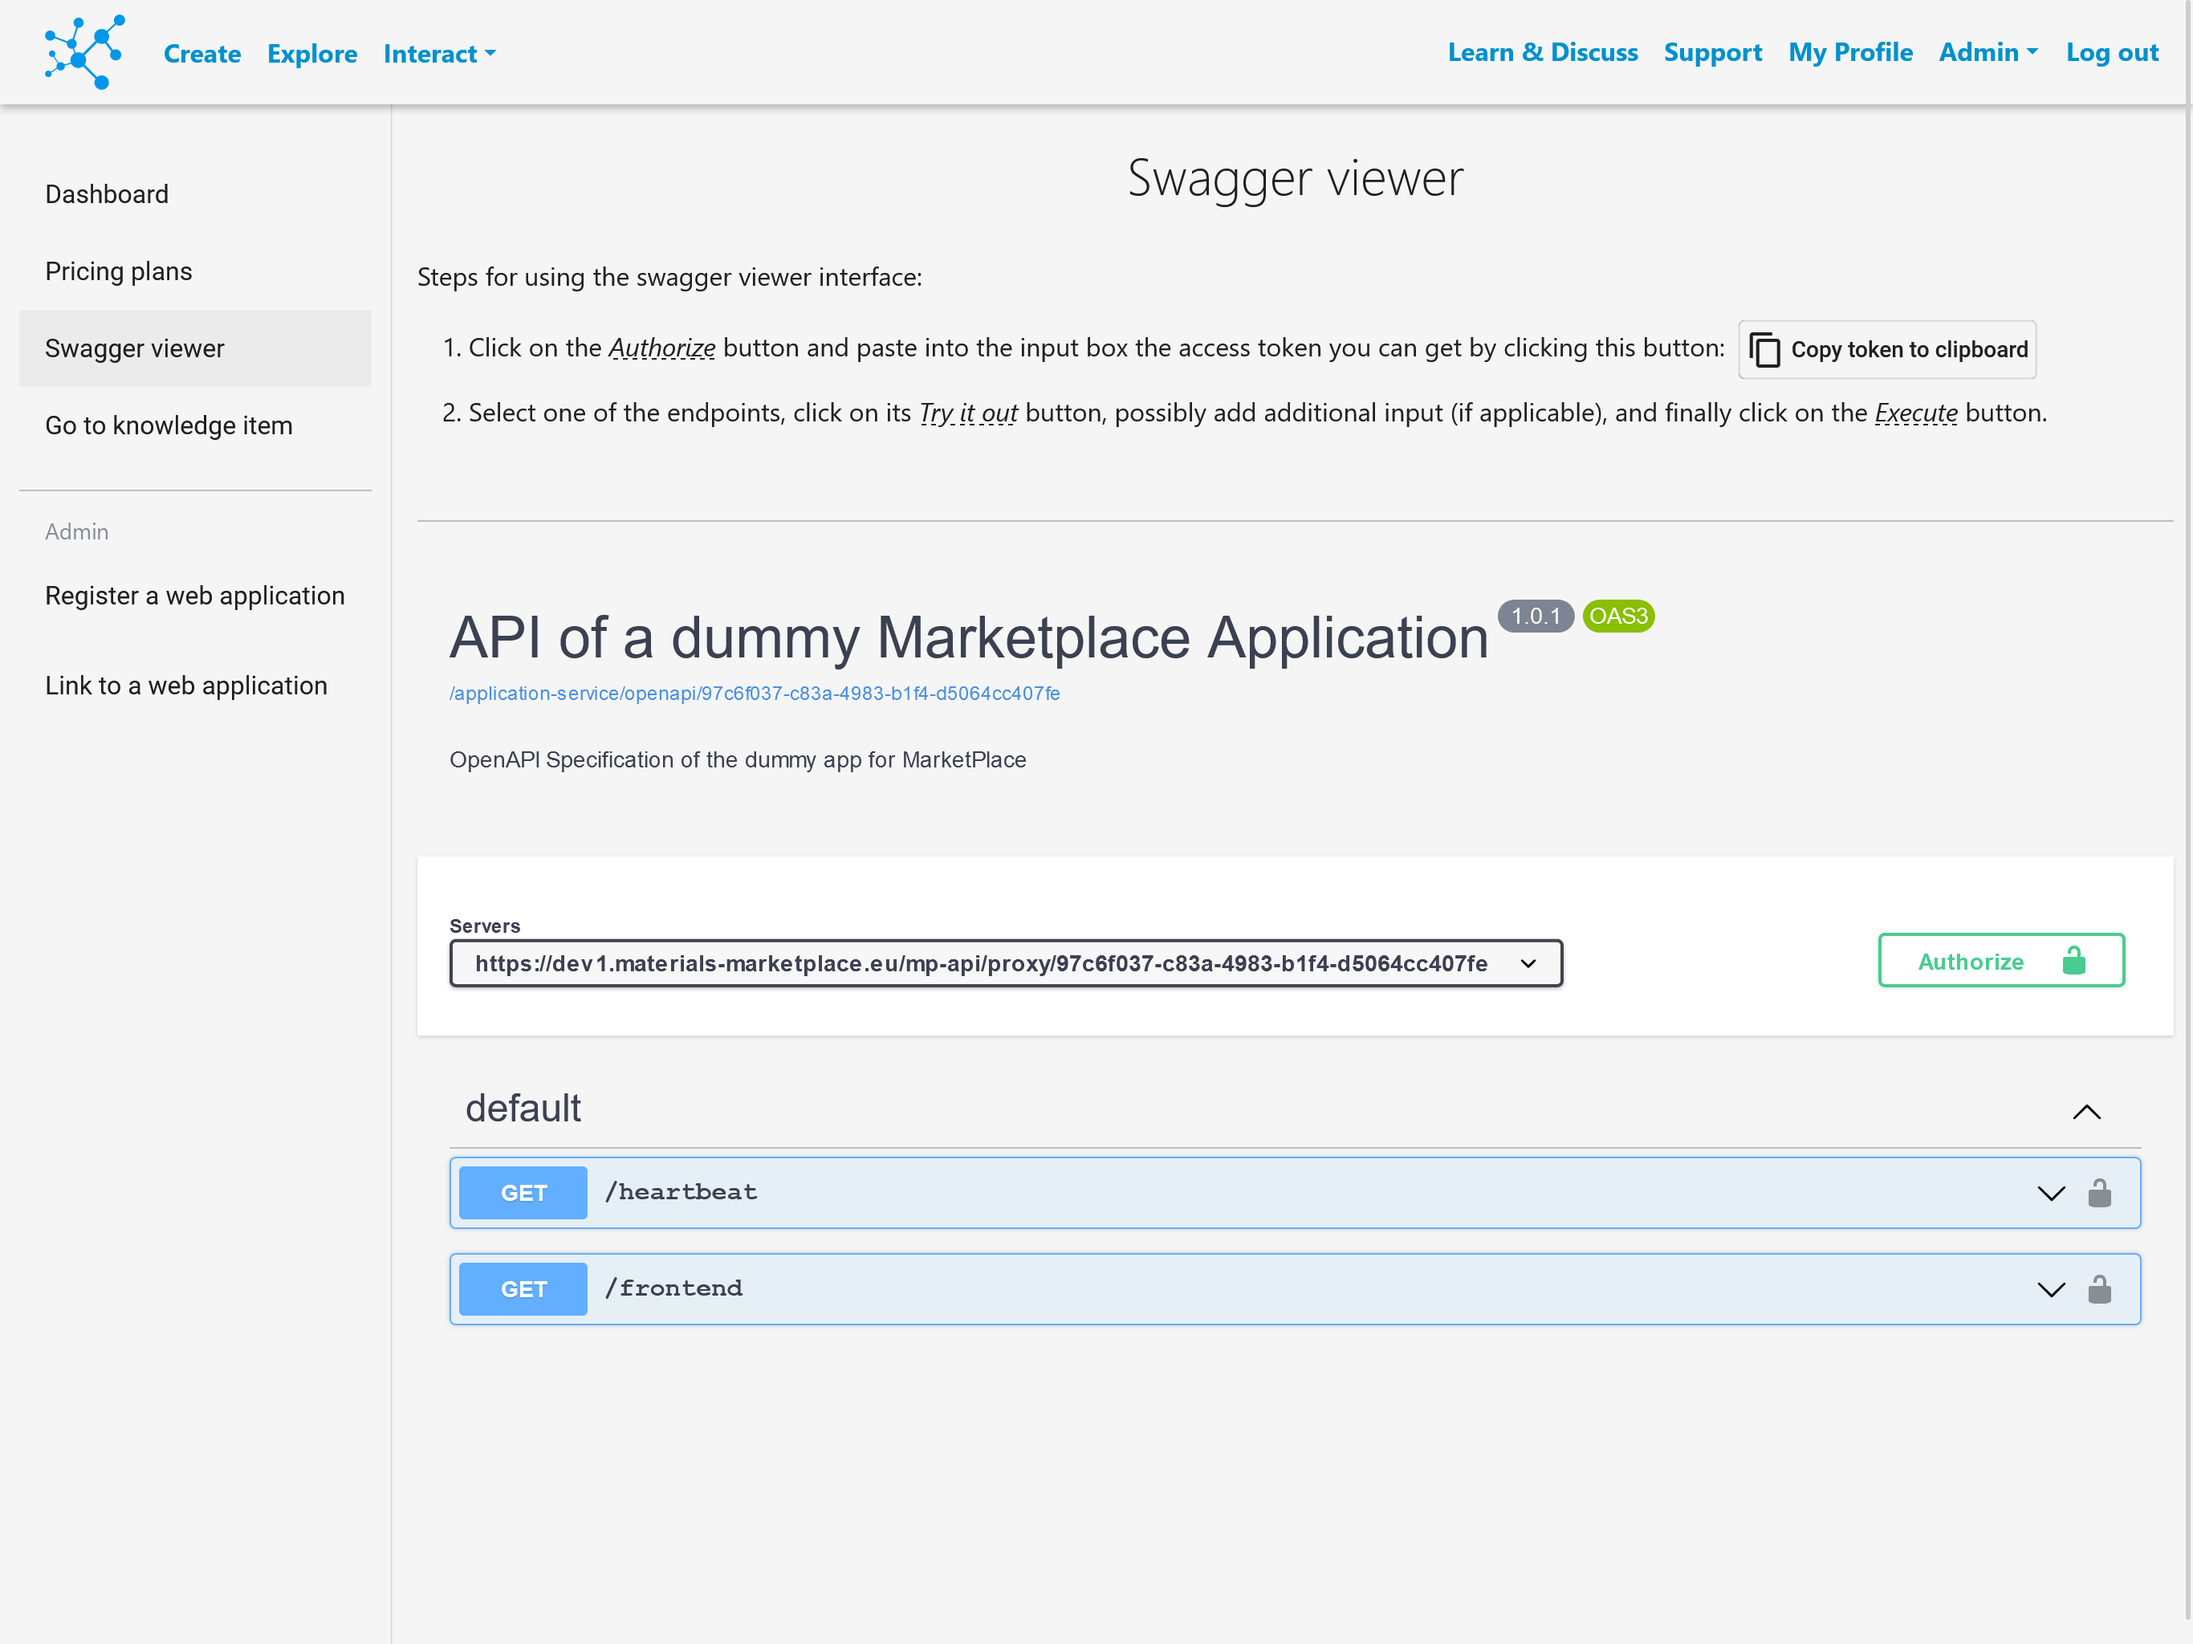
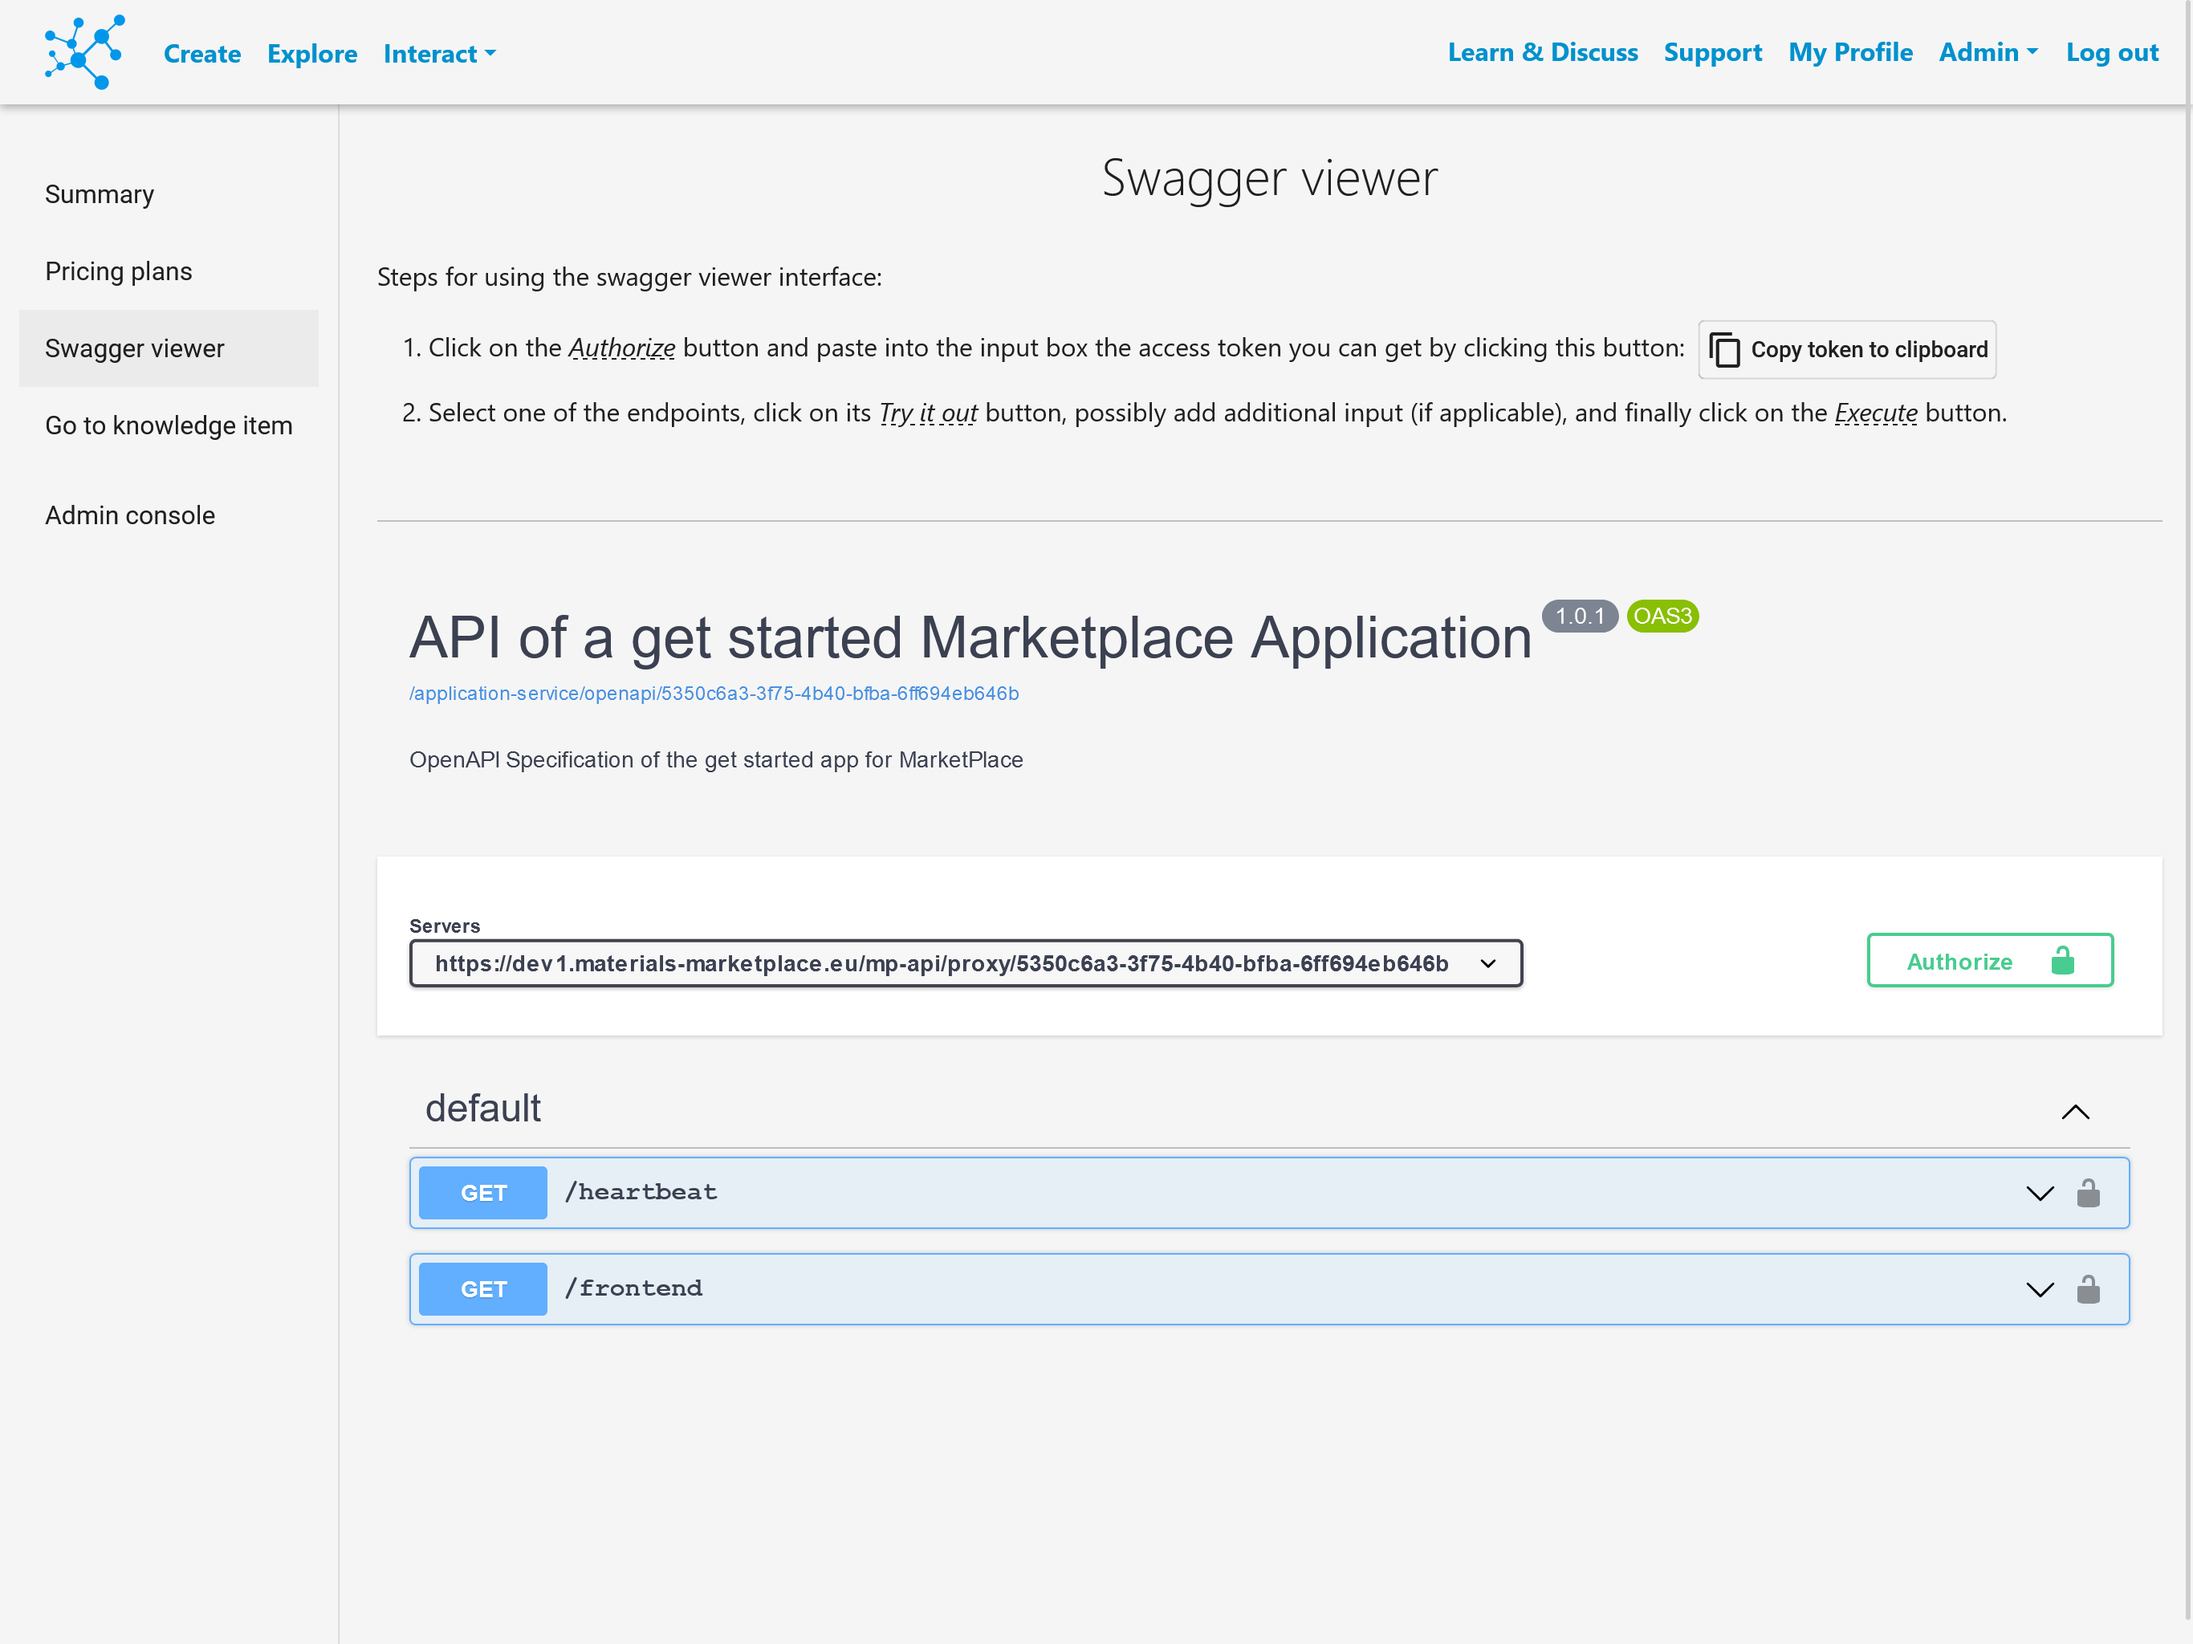
Add update and images of latest version

diff --git a/docs/source/apps/registration.md b/docs/source/apps/registration.md
@@ -24,7 +24,7 @@ To proceed to the next step, click on "_Dashboard_".
 
 ## 2. Register application
 
-In the "_Register a web application_" section of the left bar you can upload the file with the openAPI specification.
+In the _Register or update_ section of _Admin console_ you can upload the file with the openAPI specification.
 For more information on this file, refer to the [OpenAPI specification section](mp-api.md).
 
 ![Registration input](../_static/img/app_registration/register_app.png)
@@ -33,28 +33,28 @@ If the registration process is successful, you will be provided with some meanin
 
 ![Registration output](../_static/img/app_registration/registration_output.png)
 
-In the case that you have developed the application following a setup similar to the aforementioned dummy app, the `client_id` and `client_secret` should be used when you start your application server to enable the Single Sing On mechanism via the MarketPlace platform.
+In the case that you have developed the application following a setup similar to the aforementioned get-started app, the `client_id` and `client_secret` should be used when you start your application server to enable the Single Sing On mechanism via the MarketPlace platform.
 
 Next, a platform admin should approve the registration.
 In the meantime, make sure that your application server is running and can be reached.
 
 ## 3. Link application
 
-Once the application has been approved, it will be available for linking in the "_Link to a web application_" section.
+Once the application has been approved, it will be available for linking in the _Link_ section of the admin console.
 
 ![Link the application](../_static/img/app_registration/link_app.png)
 
-Now the application information (client ID and capabilities) should be available in the "_Dashboard_".
+Now the application information (client ID and capabilities) should be available in the _Summary_.
 
 ![Application Dashboard](../_static/img/app_registration/app_info.png)
 
-To be able to use the application, one of the products should be purchased on the "_Pricing plans_" section.
+To be able to use the application, one of the products should be purchased on the _Pricing plans_ section.
 
 ![Purchasing a product](../_static/img/app_registration/pricing.png)
 
 ## 4. Test application
 
-You can directly test the communication with the newly registered application via MarketPlace on the "_Swagger viewer_".
+You can directly test the communication with the newly registered application via MarketPlace on the _Swagger viewer_.
 The endpoints shown there are directly generated based on the uploaded openAPI file.
 
 ![Swagger view](../_static/img/app_registration/swagger.png)

diff --git a/docs/source/apps/update.md b/docs/source/apps/update.md
@@ -1,9 +1,5 @@
 # Update an application
 
-```{warning}
-Temporarily not supported.
-```
-
 Once an application has already been registered, it can be updated without having to change the client ID and client secret values.
 
 ## 1. Update the .yml file
@@ -11,33 +7,14 @@ Once an application has already been registered, it can be updated without havin
 The `version` field must be updated each time the application is updated.
 The `client-id` provided in the initial registration should be included in the `x-oauth-client` section.
 
-If any products remain unchanged, their `product-id` should be included in the `products` description
+If any products remain unchanged, their `product-id` should be included in the `x-products` description.
 
-## 2. Update the application in MarketPlace
+## 2. Update the application on the MarketPlace
 
-TODO: This process is being reviewed in the latest version and has not been finalised yet.
+Upload the new version of the openAPI specification in the _Admin console_ of your application:
 
-Please re-register any application that needs to be updated for now
+![Update the application](../_static/img/app_registration/update_app.png)
 
-<!--
-### Fields that can be updated
+If the process was successful, you will be informed:
 
--  ``version`` must be different from already registered application version
--  ``x-products`` can be deleted or modified
--  ``x-image`` field can be updated
--  New ``paths`` with new capabilities can be added
--  ``x-application-name`` field can be updated
-
-### Fields that cannot be updated
-
-
--  ``x-application-id`` field should not be modified
--  ``x-external-hostname`` cannot be modified
--  ``servers`` field cannot be modified
--  Existing ``paths`` and capabilities cannot be modified or deleted
-
-## 3. Have an administrator approve the updated application
-
-An administrator needs to approve the application again for it to appear
-on the Marketplace page .
--->
+![Update output](../_static/img/app_registration/update_output.png)
